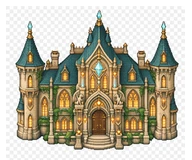
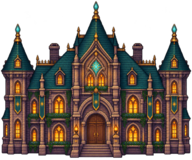
feat: integra 2º lote de arte do Codex (Stone Reach) e corrige softlock
Stone Reach ganha bancos, vegetação baixa e margem de lago no Pátio, e
estantes/mesas variando por família (WORLD_ART_FAMILIES.hall) no Salão/
Biblioteca/Anexo. Fachada da Academia recebeu arte revisada em maior
resolução, com footprint do prédio reduzido no grid do Pátio.

Correção: a fachada revisada tinha sido reancorada em cima da porta
('+', warp para 'hall') e marcada sólida, trancando a única entrada do
Salão. Reancorada 4 células ao norte, mesma folga do posicionamento
anterior.

Ajuste no autoteste: o check "nenhuma decoração tranca passagem" e o
par "decoração (não) marcada bloqueia" tratavam qualquer decor sobre
tile já sólido como erro, mesmo sem `solido:true` — o que reprovava a
margem do lago (decor transparente sobre água, que já bloqueia por
conta própria). Passaram a exigir `d.solido` nesse cruzamento.

diff --git a/src/scripts/world/12-maps.js b/src/scripts/world/12-maps.js
@@ -66,25 +66,55 @@ const MAPS = {
       {x:1,  y:6,  s:'prop_placa',
        text:'PLACA — "Bem-vindo(a) a Stone Reach. Silêncio nos jardins após o toque de recolher."'},
       {x:38, y:6,  s:'prop_fogueira', text:'O fogo arde estável, sem fumaça. Éter, de novo.'},
+      /* x:13 fica alinhado com a porta ('+' em y:6, warp pra 'hall');
+         y:2 é a mesma folga usada antes do redesenho do prédio — em
+         cima da porta e sólido, a fachada trancaria a única entrada
+         do Salão. */
       {x:13, y:2,  s:'prop_academia_stone_reach', solido:true,
        text:'A fachada da Academia ainda ostenta o brasão original, gasto pelo tempo mas legível.'},
       {x:18, y:20, s:'prop_portao_stone_reach',
        text:'O portão sul de Stone Reach — pedra maciça, gravada com o mesmo selo que mantém o Subterrâneo fechado.'},
+      {x:6,  y:18, s:'prop_bench_stone_reach_01', solido:true,
+       text:'Um banco de madeira polido por muitas conversas entre aulas.'},
+      {x:14, y:18, s:'prop_bench_stone_reach_02', solido:true,
+       text:'A pedra ainda guarda o frescor da manhã.'},
+      {x:28, y:18, s:'prop_bench_stone_reach_03', solido:true,
+       text:'O brasão no encosto foi gasto por gerações de estudantes.'},
+      {x:7,  y:15, s:'prop_plant_stone_reach_01',
+       text:'Flores de éter emitem um brilho suave entre as folhas.'},
+      {x:24, y:15, s:'prop_plant_stone_reach_02',
+       text:'Alguém cuida deste vaso com paciência de botânico.'},
+      {x:33, y:10, s:'prop_plant_stone_reach_03',
+       text:'Musgo e flores baixas reaproveitam as pedras antigas do pátio.'},
+      /* A água continua sendo tile animado; estas peças transparentes só
+         desenham a margem baixa nas células externas do lago. */
+      {x:13, y:9,  s:'prop_lake_edge_patio_north', text:'Pedras baixas e musgo protegem a margem do lago.'},
+      {x:14, y:9,  s:'prop_lake_edge_patio_north', text:'Pedras baixas e musgo protegem a margem do lago.'},
+      {x:15, y:9,  s:'prop_lake_edge_patio_north', text:'Pedras baixas e musgo protegem a margem do lago.'},
+      {x:16, y:9,  s:'prop_lake_edge_patio_north', text:'Pedras baixas e musgo protegem a margem do lago.'},
+      {x:12, y:10, s:'prop_lake_edge_patio_west',  text:'Pedras baixas e musgo protegem a margem do lago.'},
+      {x:17, y:10, s:'prop_lake_edge_patio_east',  text:'Pedras baixas e musgo protegem a margem do lago.'},
+      {x:12, y:11, s:'prop_lake_edge_patio_west',  text:'Pedras baixas e musgo protegem a margem do lago.'},
+      {x:17, y:11, s:'prop_lake_edge_patio_east',  text:'Pedras baixas e musgo protegem a margem do lago.'},
+      {x:13, y:12, s:'prop_lake_edge_patio_south', text:'Pedras baixas e musgo protegem a margem do lago.'},
+      {x:14, y:12, s:'prop_lake_edge_patio_south', text:'Pedras baixas e musgo protegem a margem do lago.'},
+      {x:15, y:12, s:'prop_lake_edge_patio_south', text:'Pedras baixas e musgo protegem a margem do lago.'},
+      {x:16, y:12, s:'prop_lake_edge_patio_south', text:'Pedras baixas e musgo protegem a margem do lago.'},
     ],
     rows:[
       '########################################',
       '#######................................#',
       '#####..................................#',
-      '###....############...........#####....#',
-      '#......#ffffffffff#...........#fff#....#',
-      '#..TT..#ffffffffff#..T.....T..#fff#..T.#',
-      '#......#####+######...........##+##....#',
+      '###.......######..............#####....#',
+      '#.........#ffff#..............#fff#....#',
+      '#..TT.....#ffff#.....T.....T..#fff#..T.#',
+      '#.........###+##..............##+##....#',
       '#..........,,,,,.................,.....#',
       '#....,,,,,,,,,,,,,,,,,,,,,,,,,,,,,,,,,,#',
-      '#....,......~~~~~~....,......$....,....#',
+      '#....,.......~~~~.....,......$....,....#',
       '#....,......~~~~~~....,...........,....#',
       '#....,,,,,,,~~~~~~,,,,,,,,,,,,,,,,,....#',
-      '#....,......~~~~~~....,...........,....#',
+      '#....,.......~~~~.....,...........,....#',
       '#....,................,......*....,....#',
       '#+...,,,,,,,,,,,,,,,,,,,,,,,,,,,,,,....#',
       '#....,...........T....,....T......,....#',

diff --git a/src/scripts/00-assets.js b/src/scripts/00-assets.js
@@ -514,6 +514,32 @@ Object.assign(SPRITE_DATA, {
   "prop_tree_stone_reach_01": "assets/world/prop_tree_stone_reach_01.webp",
   "prop_tree_stone_reach_02": "assets/world/prop_tree_stone_reach_02.webp",
   "prop_tree_stone_reach_03": "assets/world/prop_tree_stone_reach_03.webp",
+  /* Estantes da Academia: variantes regionais para Salão, Biblioteca e
+     Anexo, resolvidas por `hall.shelf` sem mudar tiles ou colisão. */
+  "prop_shelf_stone_reach_01": "assets/world/prop_shelf_stone_reach_01.webp",
+  "prop_shelf_stone_reach_02": "assets/world/prop_shelf_stone_reach_02.webp",
+  "prop_shelf_stone_reach_03": "assets/world/prop_shelf_stone_reach_03.webp",
+  /* Mesas de estudo da Academia: livros, instrumentos e candeeiro
+     distinguem salas sem criar tiles, colisão ou decoração estática. */
+  "prop_table_stone_reach_01": "assets/world/prop_table_stone_reach_01.webp",
+  "prop_table_stone_reach_02": "assets/world/prop_table_stone_reach_02.webp",
+  "prop_table_stone_reach_03": "assets/world/prop_table_stone_reach_03.webp",
+  /* Bancos pontuais do pátio: madeira, pedra e brasão dão descanso ao
+     gramado sem transformar a Academia numa camada estática de fundo. */
+  "prop_bench_stone_reach_01": "assets/world/prop_bench_stone_reach_01.webp",
+  "prop_bench_stone_reach_02": "assets/world/prop_bench_stone_reach_02.webp",
+  "prop_bench_stone_reach_03": "assets/world/prop_bench_stone_reach_03.webp",
+  /* Vegetação baixa do pátio: leitura regional sem acrescentar colisão
+     nem competir com as árvores ou com o trajeto dos estudantes. */
+  "prop_plant_stone_reach_01": "assets/world/prop_plant_stone_reach_01.webp",
+  "prop_plant_stone_reach_02": "assets/world/prop_plant_stone_reach_02.webp",
+  "prop_plant_stone_reach_03": "assets/world/prop_plant_stone_reach_03.webp",
+  /* Margem modular do lago do pátio: sobrepõe pedra baixa à água sem
+     congelar sua animação nem transformar o lago em obstáculo novo. */
+  "prop_lake_edge_patio_north": "assets/world/prop_lake_edge_patio_north.webp",
+  "prop_lake_edge_patio_south": "assets/world/prop_lake_edge_patio_south.webp",
+  "prop_lake_edge_patio_west": "assets/world/prop_lake_edge_patio_west.webp",
+  "prop_lake_edge_patio_east": "assets/world/prop_lake_edge_patio_east.webp",
   "prop_barco": "assets/world/prop_barco.webp",
   "prop_barril": "assets/world/prop_barril.webp",
   "prop_caixa": "assets/world/prop_caixa.webp",

diff --git a/src/scripts/tests/36-self-test.js b/src/scripts/tests/36-self-test.js
@@ -2847,8 +2847,12 @@ function runSelfTests(){
             presos.push(`${id}: ${d.s} sólido no ponto de entrada`);
           if (d.solido && (def.npcs || []).some(n => n.x === d.x && n.y === d.y))
             presos.push(`${id}: ${d.s} sólido em cima de NPC`);
-          if (td && td.solid)
-            presos.push(`${id}: ${d.s} dentro de parede (${td.id})`);
+          /* Só sólida em cima de parede é erro (esconde a peça ou dobra o
+             bloqueio). Prop sem `solido` sobre terreno já impassável (ex.:
+             margem d'água desenhada sobre a água) é textura visível de
+             propósito, não armadilha — a água já bloqueia sozinha. */
+          if (d.solido && td && td.solid)
+            presos.push(`${id}: ${d.s} sólido dentro de parede (${td.id})`);
         }
       }
       ok('nenhuma decoração tranca passagem, save, baú ou NPC',
@@ -2861,8 +2865,16 @@ function runSelfTests(){
         ok('há mapa com decoração sólida para testar', !!comDecor, comDecor || 'nenhum');
         if (comDecor){
           loadMap(comDecor); Cut.stop && Cut.stop(); Msg.active = false; Msg.lines = [];
+          const linhasComDecor = (MAPS[comDecor].grid || MAPS[comDecor].rows || []).map(String);
+          /* Prop não-sólida pode ficar sobre terreno já impassável por si
+             só (água, por exemplo) — aí `isSolid` dá true pelo terreno,
+             não pela decoração, e não prova nada sobre o `solido` dela. */
+          const sobreTerrenoSolido = d => {
+            const td = TILEDEF[(linhasComDecor[d.y] || '')[d.x]];
+            return !!(td && td.solid);
+          };
           const solidos = (MAPS[comDecor].decor || []).filter(d => d.solido);
-          const moles   = (MAPS[comDecor].decor || []).filter(d => !d.solido);
+          const moles   = (MAPS[comDecor].decor || []).filter(d => !d.solido && !sobreTerrenoSolido(d));
           ok('decoração marcada como sólida bloqueia',
              solidos.every(d => isSolid(d.x, d.y)),
              solidos.filter(d => !isSolid(d.x, d.y)).map(d => d.s).join(','));

diff --git a/src/scripts/engine/15-render.js b/src/scripts/engine/15-render.js
@@ -729,6 +729,22 @@ const WORLD_ART_FAMILIES = {
         {key:'prop_tree_stone_reach_03', weight:1},
       ],
     },
+    /* Academia: os interiores de Salão, Biblioteca e Anexo alternam
+       estantes catalogadas, sem alterar a grade sólida que as suporta. */
+    hall: {
+      shelf: [
+        {key:'prop_estante_interior', weight:4},
+        {key:'prop_shelf_stone_reach_01', weight:1},
+        {key:'prop_shelf_stone_reach_02', weight:1},
+        {key:'prop_shelf_stone_reach_03', weight:1},
+      ],
+      table: [
+        {key:'prop_mesa_interior', weight:4},
+        {key:'prop_table_stone_reach_01', weight:1},
+        {key:'prop_table_stone_reach_02', weight:1},
+        {key:'prop_table_stone_reach_03', weight:1},
+      ],
+    },
     /* Prova de conceito da Fase 1: reafirma o pilar do Subterrâneo
        como família de variante única. Nenhuma arte nova; só liga o
        cano. */

diff --git a/tests/test_modular.py b/tests/test_modular.py
@@ -20,7 +20,7 @@ class ModularTest(unittest.TestCase):
     def test_arvore_modular_e_integra(self) -> None:
         catalog = carregar_build().validate(ROOT / "src")
         self.assertEqual(catalog["version"], "5.31.0")
-        self.assertEqual(len(catalog["assets"]), 623)
+        self.assertEqual(len(catalog["assets"]), 639)
         self.assertEqual(len(catalog["scripts"]), 40)
 
     def test_nenhum_arquivo_volta_a_ser_monolito(self) -> None:
